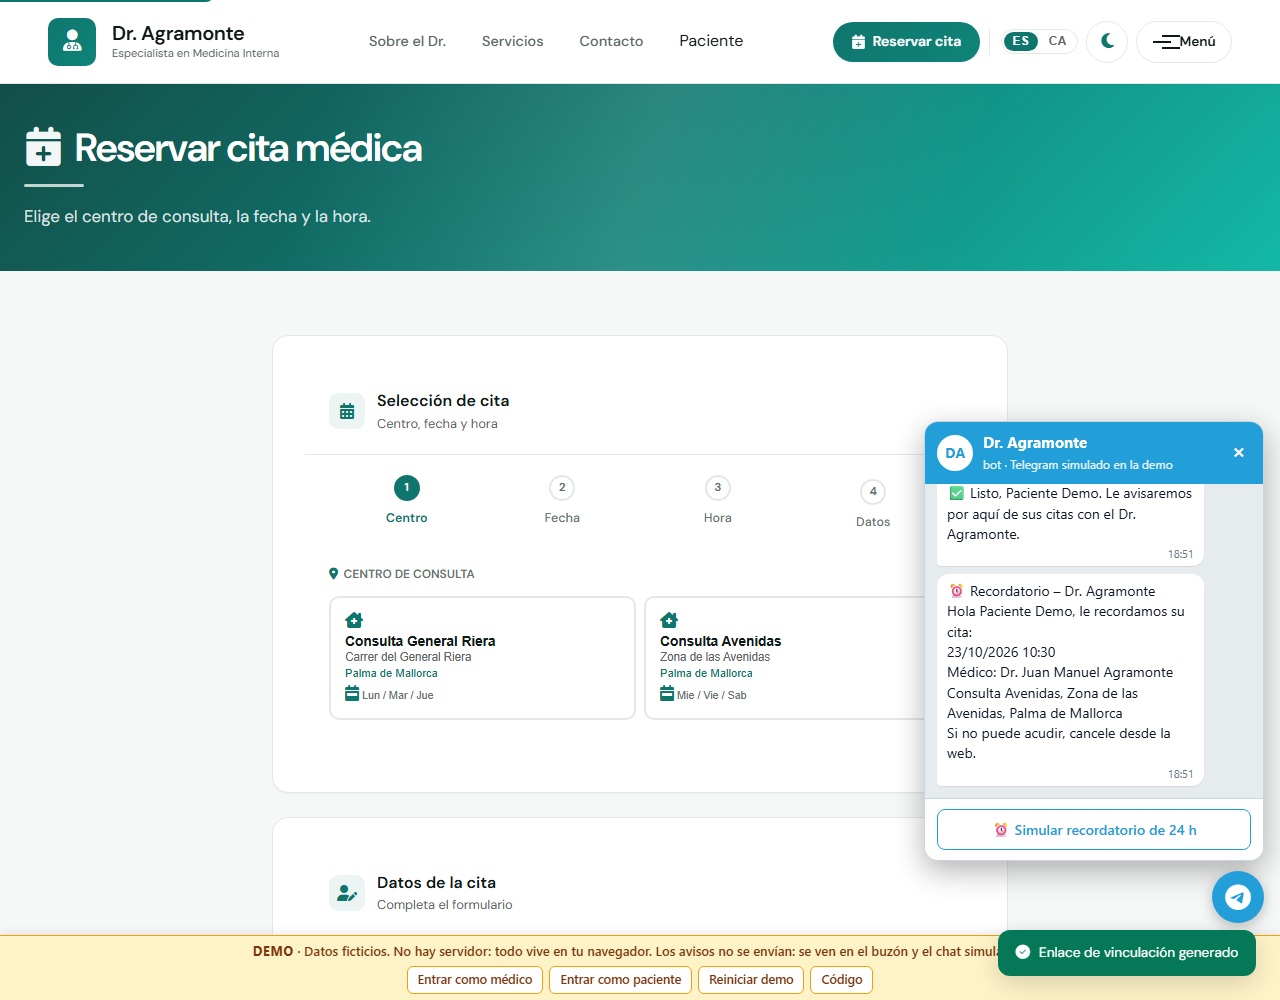
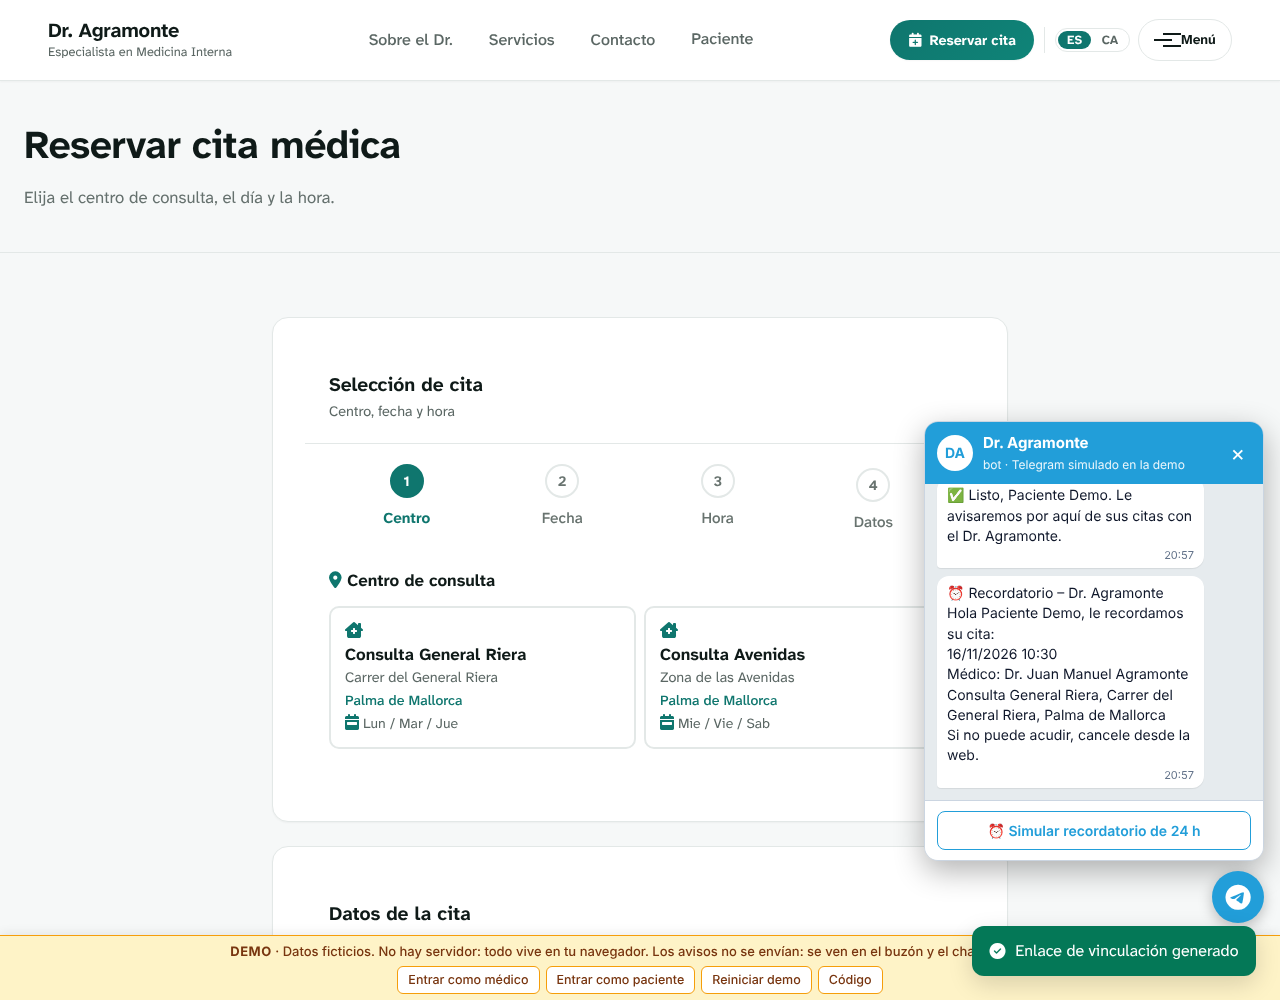
docs: capturas con el diseño nuevo
Regeneradas con scripts/capturar-pantallas.sh. Los textos alternativos de
CAPTURAS.md ya no hablan de los años de ejercicio ni de tarjetas, y explican
lo que hace la portada cuando la agenda no responde.

diff --git a/docs/CAPTURAS.md b/docs/CAPTURAS.md
@@ -15,18 +15,18 @@ del producto.
 
 ## 1. Portada
 
-![Portada: el titular «Su cita con el Dr. Agramonte, en un minuto», las tres razones para reservar aquí y los años de ejercicio, junto a un panel de reserva con los dos centros de consulta y los huecos libres del jueves](capturas/01-portada.jpg)
+![Portada: el titular «Su cita con el Dr. Agramonte, en un minuto», las tres cosas que incluye reservar aquí y, al lado, el panel de reserva con los dos centros de consulta y los huecos libres del primer día con agenda](capturas/01-portada.jpg)
 
 Lo primero que ve un paciente es el propio selector de cita, con los huecos reales que
 devuelve `GET /api/disponibilidad`. Elegir centro y hora ocurre aquí; `reservar.html` solo
-recoge los datos. Si el backend no contesta, el panel se repliega al botón de siempre y la
-portada nunca se queda sin vía para pedir cita.
+recoge los datos. Si el backend no contesta, el panel enseña los dos centros como enlaces a `reservar.html?centro=…`,
+sin mensaje de error, y la portada nunca se queda sin vía para pedir cita.
 
 ## 2. Servicios
 
-![Catálogo de servicios en tarjetas alineadas: consulta general, control de enfermedades crónicas, chequeos preventivos, interpretación de analíticas y asesoramiento en estilo de vida, con el proceso de atención en cuatro pasos debajo](capturas/02-servicios.png)
+![Catálogo de servicios en filas: consulta general, control de enfermedades crónicas, chequeos preventivos, interpretación de analíticas y asesoramiento en estilo de vida, con el proceso de atención en cuatro pasos debajo](capturas/02-servicios.png)
 
-Cada tarjeta lleva a la reserva con el servicio ya elegido (`reservar.html?servicio=…`), de
+Cada fila lleva a la reserva con el servicio ya elegido (`reservar.html?servicio=…`), de
 modo que el paciente no tiene que volver a decidir lo que ya decidió aquí.
 
 ## 3. Reservar: el centro manda sobre el calendario
@@ -40,7 +40,7 @@ datos desde la migración V6 (ver [BASE-DE-DATOS.md](BASE-DE-DATOS.md)).
 
 ## 4. Reservar: huecos y formulario, a la vez
 
-![Pantalla completa de reserva en una sola columna: el centro elegido, el calendario con el día 22 seleccionado, los dieciséis huecos de mañana y tarde y, debajo, el formulario con especialista, tipo de consulta y cobertura](capturas/04-reserva-huecos.png)
+![Pantalla completa de reserva en una sola columna: el centro elegido, el calendario con un día seleccionado, los huecos de mañana y tarde y, debajo, el formulario con especialista, tipo de consulta y cobertura](capturas/04-reserva-huecos.png)
 
 Los huecos libres salen de la agenda del médico para ese centro y ese día. En producción los
 calcula el servidor (`GET /api/disponibilidad`), no el navegador: es lo que impide que dos
